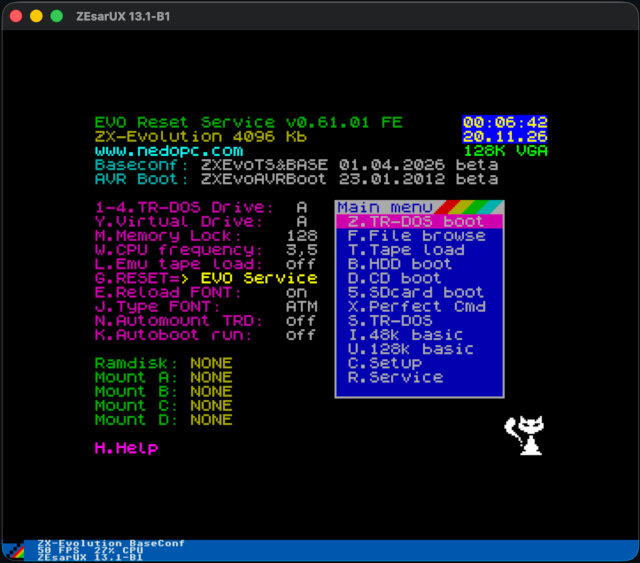
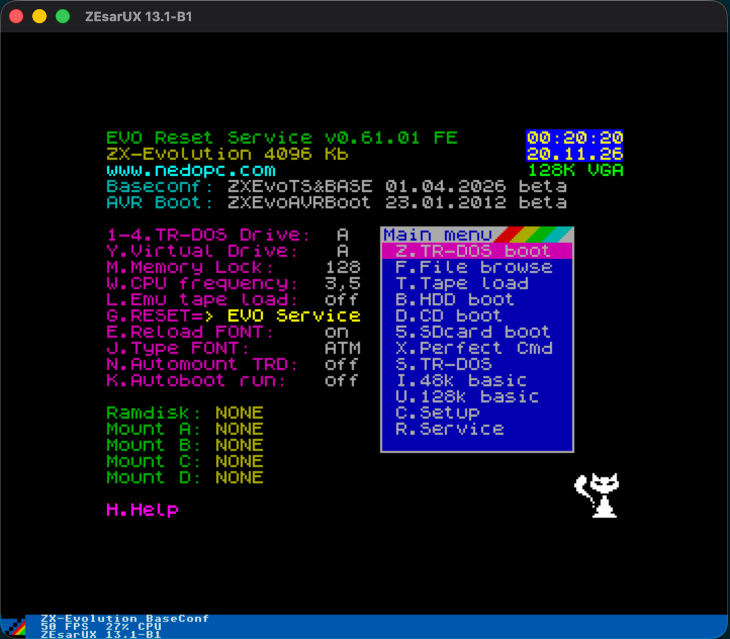
add more screenshots

diff --git a/README.md b/README.md
@@ -458,6 +458,16 @@ ZX-Evolution BaseConf
 ![alt text](https://github.com/chernandezba/zesarux/raw/main/screenshots/screenshot_baseconf.png "ZX-Evolution BaseConf")
 
 
+Scorpion GMX
+
+![alt text](https://github.com/chernandezba/zesarux/raw/main/screenshots/screenshot_scorpion_gmx.png "Scorpion GMX")
+
+
+ATM Turbo 3
+
+![alt text](https://github.com/chernandezba/zesarux/raw/main/screenshots/screenshot_atm_turbo3.png "ATM Turbo 3")
+
+
 ZX Spectrum Next
 
 ![alt text](https://github.com/chernandezba/zesarux/raw/main/screenshots/screenshot_tbblue.png "TBBlue/ZX Spectrum Next")
